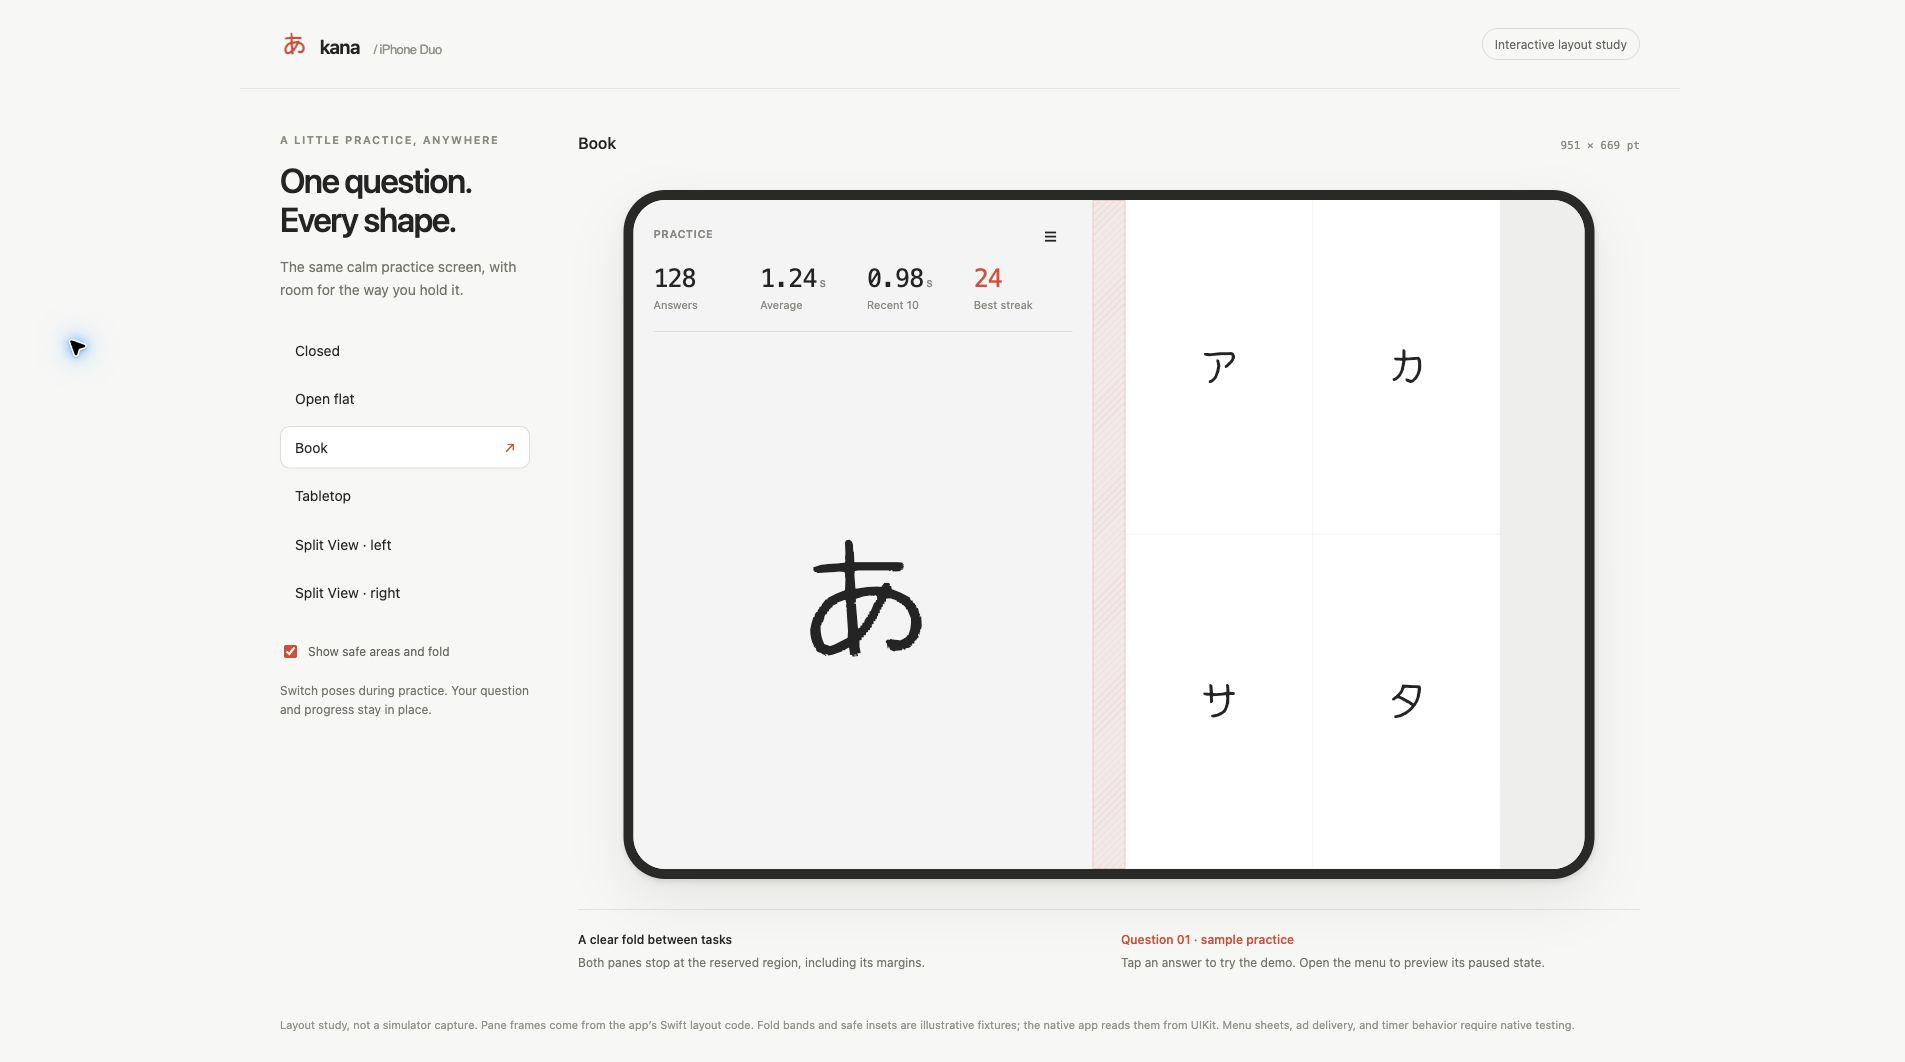
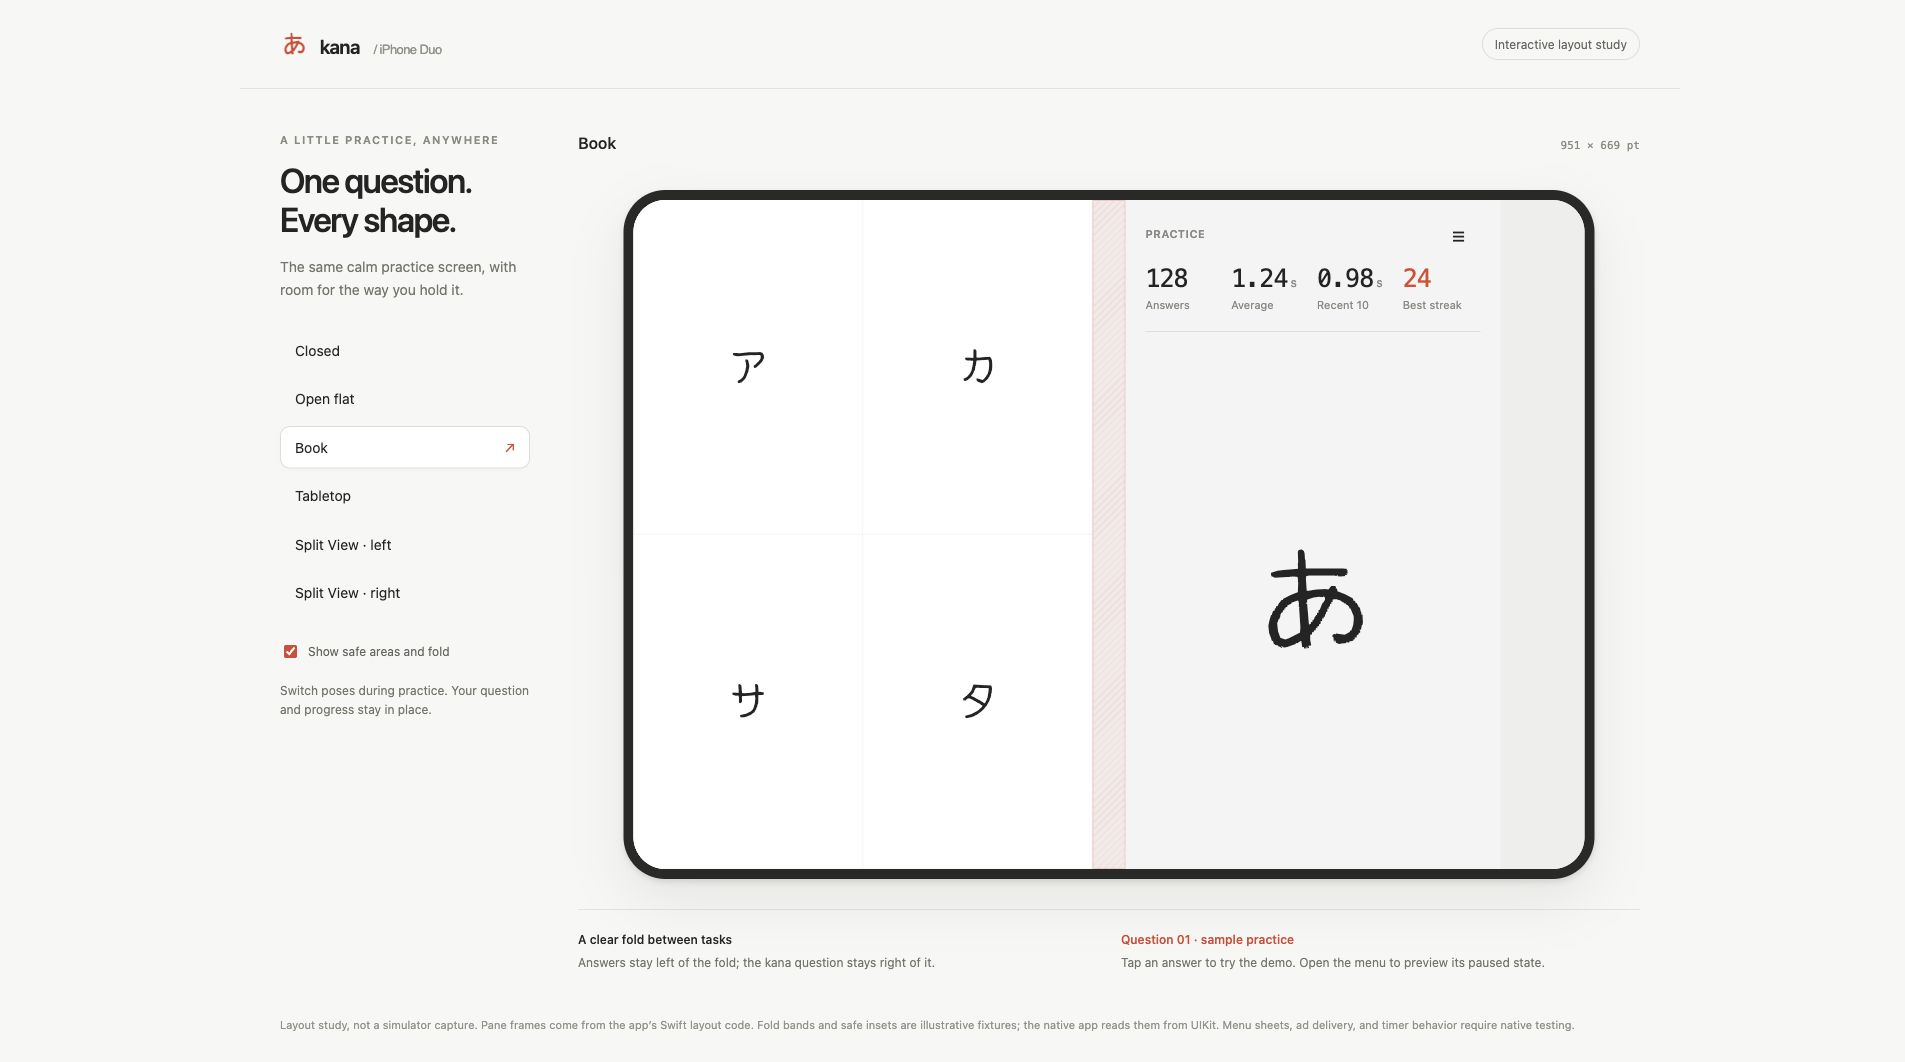
Place answers before the question in wide layouts

diff --git a/source/kana/kanaTests/PracticeLayoutTests.swift b/source/kana/kanaTests/PracticeLayoutTests.swift
@@ -12,10 +12,11 @@ final class PracticeLayoutTests: XCTestCase {
         XCTAssertEqual(layout.answers.width, bounds.width)
     }
 
-    func testWideWindowUsesTwoColumns() {
+    func testWideWindowPlacesAnswersBeforeQuestion() {
         let bounds = CGRect(x: 0, y: 0, width: 867, height: 669)
         let layout = PracticeLayout(bounds: bounds, prefersColumns: true)
-        XCTAssertEqual(layout.question.maxX, layout.answers.minX)
+        XCTAssertEqual(layout.answers.minX, bounds.minX)
+        XCTAssertEqual(layout.answers.maxX, layout.question.minX)
         XCTAssertEqual(layout.question.width, layout.answers.width)
         XCTAssertEqual(layout.question.height, bounds.height)
     }
@@ -24,9 +25,9 @@ final class PracticeLayoutTests: XCTestCase {
         let bounds = CGRect(x: 0, y: 0, width: 867, height: 669)
         let fold = CGRect(x: 459, y: -20, width: 33, height: 720)
         let layout = PracticeLayout(bounds: bounds, prefersColumns: true, divisions: [fold])
-        XCTAssertEqual(layout.question.maxX, fold.minX)
-        XCTAssertEqual(layout.answers.minX, fold.maxX)
-        XCTAssertEqual(layout.answers.maxX, bounds.maxX)
+        XCTAssertEqual(layout.answers.maxX, fold.minX)
+        XCTAssertEqual(layout.question.minX, fold.maxX)
+        XCTAssertEqual(layout.question.maxX, bounds.maxX)
         XCTAssertFalse(layout.question.intersects(fold))
         XCTAssertFalse(layout.answers.intersects(fold))
     }
@@ -35,8 +36,8 @@ final class PracticeLayoutTests: XCTestCase {
         let fold = CGRect(x: 475.5, y: 0, width: 0, height: 669)
         let layout = PracticeLayout(bounds: CGRect(x: 0, y: 0, width: 867, height: 669),
                                     prefersColumns: true, divisions: [fold])
-        XCTAssertEqual(layout.question.maxX, 475.5)
-        XCTAssertEqual(layout.answers.minX, 475.5)
+        XCTAssertEqual(layout.answers.maxX, 475.5)
+        XCTAssertEqual(layout.question.minX, 475.5)
     }
 
     func testTabletopKeepsAnswersBelowTheFold() {
@@ -61,8 +62,8 @@ final class PracticeLayoutTests: XCTestCase {
         let fold = CGRect(x: 459, y: 0, width: 33, height: 669)
         let layout = PracticeLayout(bounds: CGRect(x: 0, y: 0, width: 867, height: 669),
                                     prefersColumns: true, divisions: [fold], rightToLeft: true)
-        XCTAssertEqual(layout.question.minX, fold.maxX)
-        XCTAssertEqual(layout.answers.maxX, fold.minX)
+        XCTAssertEqual(layout.question.maxX, fold.minX)
+        XCTAssertEqual(layout.answers.minX, fold.maxX)
     }
 
     func testNonzeroOriginAndOutOfBoundsRegion() {

diff --git a/source/kana/kanaTests/PracticeResizeTests.swift b/source/kana/kanaTests/PracticeResizeTests.swift
@@ -59,8 +59,16 @@ final class PracticeResizeTests: XCTestCase {
         XCTAssertTrue(controller.timer?.isValid == true)
     }
 
-    func testPracticeRespectsEachSafeAreaEdge() throws {
-        let scene = try XCTUnwrap(UIApplication.shared.connectedScenes.compactMap { $0 as? UIWindowScene }.first)
+    func testPracticeRespectsEachSafeAreaEdge() async throws {
+        func activeScene() -> UIWindowScene? {
+            UIApplication.shared.connectedScenes.compactMap { $0 as? UIWindowScene }
+                .first { $0.activationState == .foregroundActive }
+        }
+        for _ in 0..<100 {
+            if activeScene() != nil { break }
+            try await Task.sleep(nanoseconds: 50_000_000)
+        }
+        let scene = try XCTUnwrap(activeScene())
         let window = UIWindow(windowScene: scene)
         let controller = UIViewController()
         let practice = PracticeView()
@@ -75,7 +83,14 @@ final class PracticeResizeTests: XCTestCase {
         XCTAssertGreaterThanOrEqual(practice.safeAreaInsets.right, 84)
         let prompt = practice.scrollView.convert(practice.scrollView.bounds, to: practice)
         let answers = practice.collectionView.convert(practice.collectionView.bounds, to: practice)
-        XCTAssertEqual(prompt.union(answers), controller.view.safeAreaLayoutGuide.layoutFrame)
+        let content = prompt.union(answers)
+        let safeArea = practice.safeAreaLayoutGuide.layoutFrame
+        // UIKit rounds child view bounds to device pixels.
+        let pixel = 1 / max(practice.traitCollection.displayScale, 1)
+        XCTAssertEqual(content.minX, safeArea.minX, accuracy: pixel)
+        XCTAssertEqual(content.minY, safeArea.minY, accuracy: pixel)
+        XCTAssertEqual(content.maxX, safeArea.maxX, accuracy: pixel)
+        XCTAssertEqual(content.maxY, safeArea.maxY, accuracy: pixel)
     }
 
     func testChartUsesItsContainerWidth() throws {

diff --git a/source/kana/kana/views/layouts/PracticeLayout.swift b/source/kana/kana/views/layouts/PracticeLayout.swift
@@ -31,8 +31,8 @@ struct PracticeLayout {
             // A narrow remnant beside the fold cannot hold the statistics or answer grid.
             let minimumLength: CGFloat = vertical ? 240 : 176
             if leadingLength >= minimumLength, trailingLength >= minimumLength {
-                question = vertical && rightToLeft ? trailing : leading
-                answers = vertical && rightToLeft ? leading : trailing
+                question = vertical && !rightToLeft ? trailing : leading
+                answers = vertical && !rightToLeft ? leading : trailing
                 return
             }
             available = leadingLength >= trailingLength ? leading : trailing
@@ -43,8 +43,8 @@ struct PracticeLayout {
             let leading = CGRect(x: available.minX, y: available.minY,
                                  width: available.width / 2, height: available.height)
             let trailing = leading.offsetBy(dx: leading.width, dy: 0)
-            question = rightToLeft ? trailing : leading
-            answers = rightToLeft ? leading : trailing
+            question = rightToLeft ? leading : trailing
+            answers = rightToLeft ? trailing : leading
         } else {
             question = CGRect(x: available.minX, y: available.minY,
                               width: available.width, height: available.height * 0.6)

diff --git a/design/iphone-duo/index.html b/design/iphone-duo/index.html
@@ -110,8 +110,8 @@ footer { max-width: 1440px; padding: 0 40px 28px; margin: auto; font-size: 11px;
 const $ = id => document.getElementById(id);
 const descriptions = {
   closed: ['Familiar vertical practice', 'The question stays above four large answer targets.'],
-  open: ['Space for the whole question', 'Question on the leading side, answers on the trailing side.'],
-  book: ['A clear fold between tasks', 'Both panes stop at the reserved region, including its margins.'],
+  open: ['Space for the whole question', 'Four answers on the left, the kana question on the right.'],
+  book: ['A clear fold between tasks', 'Answers stay left of the fold; the kana question stays right of it.'],
   tabletop: ['Look above. Answer below.', 'The question stays above the horizontal fold; all answers stay below it.'],
   'split-left': ['A complete task in a small window', 'The narrow fold remnant is excluded. Both panes use the remaining space.'],
   'split-right': ['The same task on either side', 'Each safe-area edge is handled independently.']

diff --git a/design/iphone-duo/README.md b/design/iphone-duo/README.md
@@ -2,8 +2,9 @@
 
 Kana keeps one question, the same statistics, and all four answers through a
 resize. Compact portrait stacks the question above the answers. A wide window
-uses two columns. A horizontal fold puts the question above the fold and the
-answers below it.
+places the four answers on the leading side and the kana question on the trailing
+side: answers on the left and the question on the right in left-to-right layouts.
+A horizontal fold puts the question above the fold and the answers below it.
 
 The implementation follows the readiness, adaptive layout, dual-pane patterns,
 and design review skills from
@@ -73,16 +74,16 @@ Checked on 2026-11-02:
 - Browser review: all six poses retained sample question, answer count, progress,
   and menu state. The preview also fit a 390-point browser viewport without
   horizontal overflow. No browser warnings or errors were observed.
-- Native test execution was attempted but did not start: Xcode disabled Simulator
-  support because installed CoreSimulator 1171.7.0 is older than its required
-  1174.21.0. `test-without-building` exited 70 with no matching destination.
+- Native regression tests passed on iPhone 18 Pro, iOS 27.0: 10 geometry tests,
+  five UIKit resize tests, and the menu pause/resume test. The safe-area test
+  waits for the host scene and allows one device pixel for UIKit rounding.
 
 Native validation remains open before release: all Duo poses and rotations,
 live folding during a question, both Split View sides, PiP height changes,
-VoiceOver, localized statistics, and chart/support/ad presentation. The browser
-preview and host geometry tests do not validate UIKit layout or real fold events.
+VoiceOver, localized statistics, and chart/support/ad presentation. The iOS 27.0
+run covers the fallback layout; it does not validate iOS 27.1 division events.
 
-After a matching runtime is available:
+Run the regression suite or repeat it on a Duo runtime:
 
 ```sh
 xcodebuild test -project source/kana/kana.xcodeproj -scheme kana \
